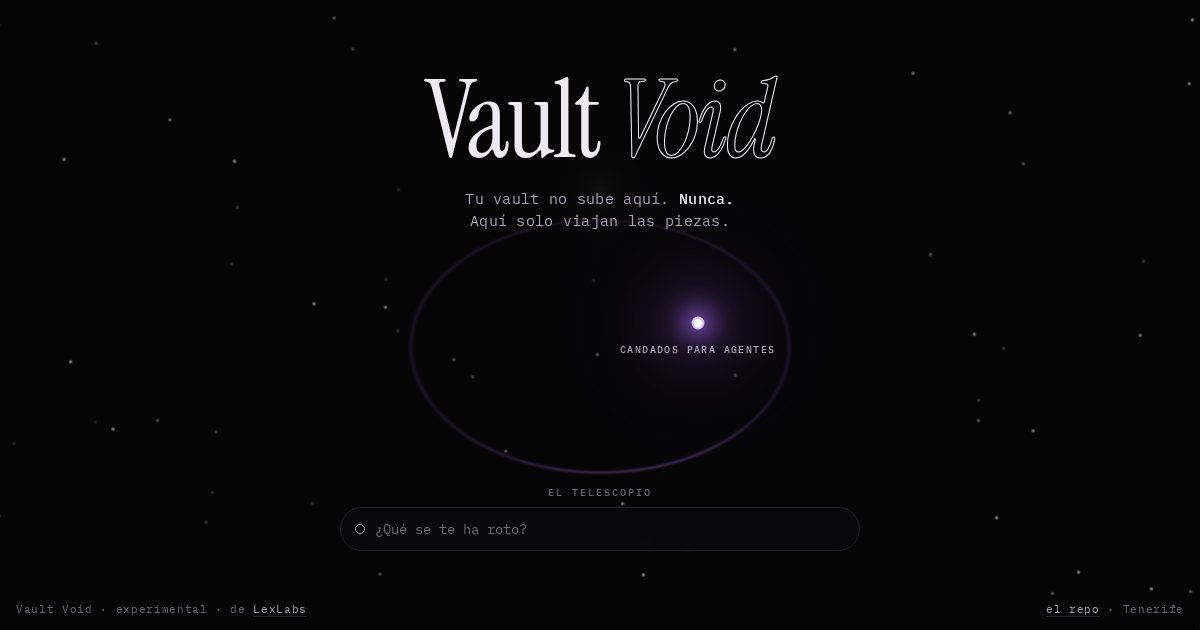
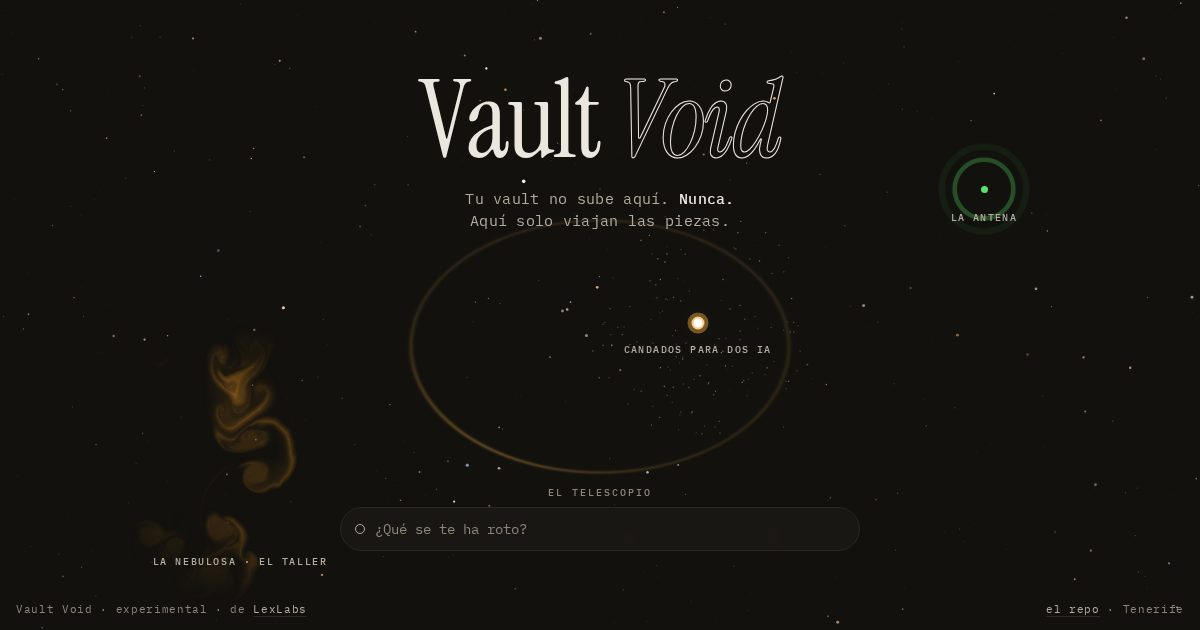
paleta: fuera el morado y los halos en vaultvoid.app y en las paginas de la red (carbon, ambar, laton y verde de resalte, la de LinkedIn; paleta.md del vault, 8-oct); gas de la nebulosa en ambar sin resplandor, estrellas sin aura, sin rebotes, icono e imagen para compartir rehechos; impeccable: port

diff --git a/web/index.html b/web/index.html
@@ -19,7 +19,7 @@
 <meta name="twitter:image" content="https://vaultvoid.app/og.jpg">
 <link rel="icon" href="/icono.svg" type="image/svg+xml">
 <link rel="apple-touch-icon" href="/apple-touch-icon.png">
-<meta name="theme-color" content="#050506">
+<meta name="theme-color" content="#12110E">
 <link rel="stylesheet" href="https://fonts.googleapis.com/css2?family=Instrument+Serif:ital@0;1&family=IBM+Plex+Mono:wght@400;500&display=swap">
 <style>
 /*
@@ -31,14 +31,15 @@
   Se llega por un agujero blanco que escupe la retícula que se tragó la landing. Cada capa de Void es un
   objeto en el vacío (el mapa vive en el «Plano unificado del vault»). Hoy hay tres:
     · la constelación: el catálogo, leído en vivo del repo público. Cada estrella, una luz.
-      Color = nivel (oficial violeta, socio ámbar, comunidad blanco). Tamaño = vaults que la usan.
+      Color = nivel (oficial ámbar, socio latón, comunidad blanco cálido). Tamaño = vaults que la usan.
     · el anillo: la puerta. La liga grande vive dentro; la pequeña orbita fuera.
     · el telescopio: buscas por lo que se te ha roto, no por el nombre, y se encienden las que lo resuelven.
-  El violeta es el mismo reactivo que corre por la landing.
+  Paleta (8-oct, paleta.md del vault): la de LinkedIn. Ámbar para actuar, verde para resaltar, nada morado y sin
+  halos: el auditor de diseño marcaba los dos como firma de interfaz hecha con IA.
 */
 :root{
-  --vacio:#050506; --tinta:#EDEAF2; --tinta-2:#A9A3B5; --tenue:#6D6878; --linea:#221F29;
-  --reactivo:#B06BFF; --reactivo-2:#D9B8FF; --ambar:#FFB43A; --rojo:#F0604F;
+  --vacio:#12110E; --tinta:#ECE7DE; --tinta-2:#B3AC9F; --tenue:#8C8578; --linea:#2B2822;
+  --ambar:#F2A93B; --ambar-2:#F8CB86; --verde:#5BE06A; --laton:#B08D57; --rojo:#F0604F;
   --serif:"Instrument Serif",Georgia,"Times New Roman",serif; --mono:"IBM Plex Mono",ui-monospace,Menlo,monospace;
   color-scheme:dark;
 }
@@ -70,15 +71,15 @@ body{margin:0;background:var(--vacio);color:var(--tinta);font:15px/1.6 var(--mon
 .astro{position:absolute;left:var(--x);top:var(--y);width:56px;height:56px;margin:-28px 0 0 -28px;border:0;padding:0;
   background:transparent;cursor:pointer;border-radius:50%;-webkit-tap-highlight-color:transparent}
 .astro .luz{position:absolute;left:50%;top:50%;width:var(--d,9px);height:var(--d,9px);transform:translate(-50%,-50%);border-radius:50%;background:#fff;
-  box-shadow:0 0 0 2px var(--c2),0 0 18px 4px var(--c),0 0 60px 14px var(--c3);animation:late 3.2s ease-in-out infinite}
-@keyframes late{50%{box-shadow:0 0 0 2px var(--c2),0 0 26px 7px var(--c),0 0 90px 22px var(--c3)}}
+  box-shadow:0 0 0 2px var(--c2);animation:late 3.2s ease-in-out infinite}
+@keyframes late{50%{box-shadow:0 0 0 2px var(--c2),0 0 0 6px var(--c3)}}
 .astro .rot{position:absolute;left:50%;top:calc(50% + 20px);transform:translateX(-50%);white-space:nowrap;font:500 10px var(--mono);
   letter-spacing:.14em;text-transform:uppercase;color:var(--tinta-2);transition:color .3s}
 .astro:hover .rot,.astro:focus-visible .rot,.astro.encendida .rot{color:var(--tinta)}
-.astro:focus-visible{outline:1px solid var(--reactivo-2);outline-offset:6px}
-.astro[data-nivel="oficiales"]{--c:var(--reactivo);--c2:var(--reactivo-2);--c3:rgba(176,107,255,.35)}
-.astro[data-nivel="socio"]{--c:var(--ambar);--c2:#FFD796;--c3:rgba(255,180,58,.3)}
-.astro[data-nivel="comunidad"]{--c:#cfcbd8;--c2:#fff;--c3:rgba(220,215,235,.22)}
+.astro:focus-visible{outline:1px solid var(--ambar-2);outline-offset:6px}
+.astro[data-nivel="oficiales"]{--c:var(--ambar);--c2:var(--ambar-2);--c3:rgba(242,169,59,.45)}
+.astro[data-nivel="socio"]{--c:var(--laton);--c2:#D9BE8F;--c3:rgba(176,141,87,.45)}
+.astro[data-nivel="comunidad"]{--c:#E9E5DC;--c2:#FFFFFF;--c3:rgba(233,229,220,.35)}
 
 /* la nebulosa: donde nacen las estrellas. Su gas es un fluido de verdad (webgl-fluid, MIT) */
 .nebulosa{position:absolute;left:var(--nx,20%);top:var(--ny,74%);width:var(--nd,300px);height:var(--nd,300px);transform:translate(-50%,-50%);
@@ -95,8 +96,8 @@ body{margin:0;background:var(--vacio);color:var(--tinta);font:15px/1.6 var(--mon
 /* la antena: el vacío contesta a los asistentes de IA. Emite ondas; al tocarla da la dirección para conectarla */
 .antena{position:absolute;left:var(--ax,82%);top:var(--ay,28%);width:44px;height:44px;margin:-22px 0 0 -22px;border:0;padding:0;background:transparent;
   cursor:pointer;border-radius:50%;z-index:2;-webkit-tap-highlight-color:transparent}
-.antena .nucleo{position:absolute;left:50%;top:50%;width:7px;height:7px;margin:-3.5px 0 0 -3.5px;border-radius:50%;background:var(--tinta);box-shadow:0 0 10px var(--tinta)}
-.antena .onda{position:absolute;left:50%;top:50%;width:14px;height:14px;margin:-7px 0 0 -7px;border-radius:50%;border:1px solid var(--reactivo-2);opacity:0;animation:onda 3.6s cubic-bezier(.2,.6,.3,1) infinite}
+.antena .nucleo{position:absolute;left:50%;top:50%;width:7px;height:7px;margin:-3.5px 0 0 -3.5px;border-radius:50%;background:var(--verde)}
+.antena .onda{position:absolute;left:50%;top:50%;width:14px;height:14px;margin:-7px 0 0 -7px;border-radius:50%;border:1px solid var(--verde);opacity:0;animation:onda 3.6s cubic-bezier(.2,.6,.3,1) infinite}
 .antena .onda:nth-child(3){animation-delay:1.2s}.antena .onda:nth-child(4){animation-delay:2.4s}
 @keyframes onda{0%{transform:scale(1);opacity:.7}100%{transform:scale(7);opacity:0}}
 .antena .rot{position:absolute;left:50%;top:calc(50% + 22px);transform:translateX(-50%);white-space:nowrap;font:500 10px var(--mono);letter-spacing:.14em;text-transform:uppercase;color:var(--tinta-2)}
@@ -107,10 +108,10 @@ body{margin:0;background:var(--vacio);color:var(--tinta);font:15px/1.6 var(--mon
 
 /* la ficha de una estrella */
 .ficha{position:absolute;left:var(--fx,50%);top:var(--fy,50%);width:min(360px,calc(100vw - 32px));max-height:calc(100% - 32px);overflow:auto;padding:18px 18px 16px;
-  background:rgba(12,10,16,.9);border:1px solid var(--linea);backdrop-filter:blur(6px);-webkit-backdrop-filter:blur(6px);z-index:5;
+  background:rgba(27,25,21,.92);border:1px solid var(--linea);backdrop-filter:blur(6px);-webkit-backdrop-filter:blur(6px);z-index:5;
   opacity:0;transform:translateY(8px);pointer-events:none;transition:opacity .45s ease,transform .45s cubic-bezier(.2,.7,.2,1)}
 .ficha.abierta{opacity:1;transform:none;pointer-events:auto}
-.ficha .n{margin:0 0 4px;font:500 10px var(--mono);letter-spacing:.2em;text-transform:uppercase;color:var(--reactivo-2)}
+.ficha .n{margin:0 0 4px;font:500 10px var(--mono);letter-spacing:.2em;text-transform:uppercase;color:var(--ambar-2)}
 .ficha h2{margin:0 0 10px;font:400 30px/1.05 var(--serif);letter-spacing:-.01em;padding-right:24px}
 .ficha p{margin:0 0 9px;color:var(--tinta-2);font-size:13px;line-height:1.6}
 .ficha .dato{display:flex;justify-content:space-between;gap:12px;border-top:1px solid var(--linea);padding:8px 0 0;margin:10px 0 0;font-size:11.5px;color:var(--tenue)}
@@ -119,7 +120,7 @@ body{margin:0;background:var(--vacio);color:var(--tinta);font:15px/1.6 var(--mon
 .ficha .orden code{flex:1;min-width:0;padding:8px 10px;font:12px var(--mono);color:var(--tinta);white-space:nowrap;overflow-x:auto}
 .ficha .orden button{border:0;border-left:1px solid var(--linea);background:transparent;color:var(--tinta-2);font:500 11px var(--mono);padding:0 12px;cursor:pointer}
 .ficha .orden button:hover{color:var(--tinta)}
-.ficha a{display:inline-block;margin-top:8px;color:var(--tinta);text-decoration:none;font:500 12.5px var(--mono);border-bottom:1px solid var(--reactivo);padding-bottom:2px}
+.ficha a{display:inline-block;margin-top:8px;color:var(--tinta);text-decoration:none;font:500 12.5px var(--mono);border-bottom:1px solid var(--ambar);padding-bottom:2px}
 .ficha a:hover{border-bottom-color:var(--tinta)}
 .ficha a[hidden]{display:none}
 .ficha #ficha-a{margin-right:18px}
@@ -129,14 +130,14 @@ body{margin:0;background:var(--vacio);color:var(--tinta);font:15px/1.6 var(--mon
 /* el telescopio: se busca por lo que se ha roto */
 .telescopio{position:absolute;left:50%;bottom:calc(52px + env(safe-area-inset-bottom,0px));transform:translateX(-50%);width:min(520px,calc(100vw - 32px));z-index:4}
 .telescopio label{display:block;margin:0 0 8px;font:500 10px var(--mono);letter-spacing:.2em;text-transform:uppercase;color:var(--tenue);text-align:center}
-.telescopio .lente{display:flex;align-items:center;gap:10px;border:1px solid var(--linea);background:rgba(10,9,14,.75);backdrop-filter:blur(4px);-webkit-backdrop-filter:blur(4px);
+.telescopio .lente{display:flex;align-items:center;gap:10px;border:1px solid var(--linea);background:rgba(27,25,21,.8);backdrop-filter:blur(4px);-webkit-backdrop-filter:blur(4px);
   padding:0 14px;border-radius:999px;transition:border-color .3s}
-.telescopio .lente:focus-within{border-color:var(--reactivo)}
+.telescopio .lente:focus-within{border-color:var(--ambar)}
 .telescopio .ojo{width:10px;height:10px;border-radius:50%;border:1.5px solid var(--tinta-2);flex:none}
 .telescopio input{flex:1;min-width:0;background:transparent;border:0;outline:0;color:var(--tinta);font:400 14px var(--mono);padding:12px 0}
 .telescopio input::placeholder{color:var(--tenue)}
 .telescopio .eco{margin:8px 0 0;min-height:1.6em;text-align:center;font-size:12px;color:var(--tinta-2)}
-.telescopio .eco a{color:var(--tinta);text-decoration:none;border-bottom:1px solid var(--reactivo)}
+.telescopio .eco a{color:var(--tinta);text-decoration:none;border-bottom:1px solid var(--ambar)}
 
 .pie{position:absolute;left:16px;right:16px;bottom:calc(14px + env(safe-area-inset-bottom,0px));display:flex;justify-content:space-between;gap:12px;flex-wrap:wrap;
   font:400 11px var(--mono);letter-spacing:.06em;color:var(--tenue)}
@@ -303,7 +304,7 @@ html:not(.js) .sinjs a{color:var(--tinta)}
     lista.forEach(function(e){var ok=!pal.length||pal.every(function(p){return e.texto.indexOf(p)>=0;});
       var antes=e.el.classList.contains("encendida");
       e.vis=ok?1:.12; e.el.style.setProperty("--vis",e.vis); e.el.classList.toggle("encendida",ok&&pal.length>0); if(ok) n++;
-      if(G&&ok&&pal.length&&!antes) G.fromTo(e.el.querySelector(".luz"),{scale:2.4},{scale:1,duration:.9,ease:"elastic.out(1,.35)"});});
+      if(G&&ok&&pal.length&&!antes) G.fromTo(e.el.querySelector(".luz"),{scale:2.4},{scale:1,duration:.9,ease:"expo.out"});});
     if(!pal.length) eco.textContent="";
     else if(n) eco.textContent=n===1?"Una estrella lo resuelve. Tócala.":n+" estrellas lo resuelven.";
     else eco.innerHTML='Ninguna estrella lo resuelve todavía. <a href="https://alexcanofuentes.com" rel="noopener">Cuéntamelo</a> y quizá sea la siguiente.';
@@ -337,8 +338,8 @@ html:not(.js) .sinjs a{color:var(--tinta)}
       sc.onload=function(){ try{ var r=cv.getBoundingClientRect(); cv.width=Math.round(r.width); cv.height=Math.round(r.height);
         window.WebGLFluid(cv,{TRIGGER:"hover",IMMEDIATE:true,AUTO:true,INTERVAL:2600,SPLAT_COUNT:3,SIM_RESOLUTION:64,DYE_RESOLUTION:256,CAPTURE_RESOLUTION:128,
           DENSITY_DISSIPATION:.45,VELOCITY_DISSIPATION:.25,CURL:28,SPLAT_RADIUS:.32,SPLAT_FORCE:2200,PRESSURE:.8,
-          COLORFUL:false,SPLAT_COLOR:{r:.24,g:.11,b:.42},SHADING:true,TRANSPARENT:true,BACK_COLOR:{r:0,g:0,b:0},
-          BLOOM:true,BLOOM_INTENSITY:.6,BLOOM_THRESHOLD:.4,SUNRAYS:false}); }catch(x){console.warn(x);} };
+          COLORFUL:false,SPLAT_COLOR:{r:.40,g:.25,b:.06},SHADING:true,TRANSPARENT:true,BACK_COLOR:{r:0,g:0,b:0},
+          BLOOM:false,SUNRAYS:false} /* gas ámbar y sin resplandor (8-oct: nada morado, sin halos) */); }catch(x){console.warn(x);} };
       document.head.appendChild(sc); }
     setTimeout(arranca,1800);   // después de la llegada: primero el agujero blanco, luego el gas
   })();
@@ -389,7 +390,7 @@ html:not(.js) .sinjs a{color:var(--tinta)}
         cx.fillStyle="rgba("+s.c[0]+","+s.c[1]+","+s.c[2]+","+(s.a*tw*e).toFixed(3)+")";
         cx.beginPath(); cx.arc(x,y,s.r,0,6.283); cx.fill(); }
       if(lista.length&&polvo.length){ for(var n=0;n<2;n++) paso(dt/2,lista);
-        cx.fillStyle="rgba(190,150,255,1)";
+        cx.fillStyle="rgba(233,229,220,1)";
         for(var k=0;k<polvo.length;k++){ var q=polvo[k]; cx.globalAlpha=q.a*e*.8; cx.fillRect(q.x,q.y,1.2,1.2); }
         cx.globalAlpha=1; }
       cx.globalCompositeOperation="source-over";
@@ -407,7 +408,7 @@ html:not(.js) .sinjs a{color:var(--tinta)}
     "float cov(float p,float Q){float q=mod(p+.5,Q);float d=min(q,Q-q);return 1.-smoothstep(.5-.7/dpr,.5+.7/dpr,d);}"+
     "void main(){vec2 f=vec2(gl_FragCoord.x,S.y*dpr-gl_FragCoord.y)/dpr;vec2 c=vec2(S.x*.5,S.y*.3);vec2 d=f-c;float r=length(d);"+
     "float m=min(S.x,S.y);float a=clamp(max(t/3.2,salto),0.,1.);float e=1.-pow(1.-a,3.);"+
-    "vec3 col=vec3(.0196,.0196,.0235);"+
+    "vec3 col=vec3(.0706,.0667,.0549);"+
 
     // FÍSICA REAL: el agujero blanco es el negro con el tiempo al revés. Fuera, la luz se curva igual (desvío de
     // Schwarzschild, tabla Al calculada al cargar); dentro del radio crítico, en vez de sombra, sale luz.
@@ -417,22 +418,23 @@ html:not(.js) .sinjs a{color:var(--tinta)}
     "float ret=0.;if(b>2.75&&al<1.45){vec2 sc=c+dir*(b-6.*tan(al))*Rs;sc=mix(sc,f,smoothstep(m*.25,m*.9,r));"+
       "float g1=max(cov(sc.x,24.),cov(sc.y,24.)),g2=max(cov(sc.x,120.),cov(sc.y,120.));"+
       "ret=(g1*.35+g2*.65)*(1.-e)*(1.-smoothstep(m*.3,m*(.6+1.4*e),r));}"+
-    "col+=mix(vec3(.85,.72,1.),vec3(.69,.42,1.),e)*ret*.55;"+
+    "col+=mix(vec3(1.,.86,.62),vec3(.95,.66,.23),e)*ret*.55;"+
     "float dentro=1.-smoothstep(2.45,2.75,b);float anillo=exp(-pow((b-2.62)/.08,2.));"+
-    "col+=vec3(1.)*(dentro*2.6+anillo*1.4)*(1.-e*.97)+vec3(.92,.84,1.)*exp(-r/(Rs*5.))*(1.-e)*1.2+vec3(.86,.75,1.)*exp(-r/(Rs*16.))*(1.-e)*.35;"+
-    "float ondas=pow(.5+.5*sin(r/m*38.-t*7.),6.)*exp(-r/(m*.45))*(1.-e)*.45;col+=vec3(.86,.75,1.)*ondas;"+
+    "col+=vec3(1.)*(dentro*2.6+anillo*1.4)*(1.-e*.97)+vec3(1.,.9,.74)*exp(-r/(Rs*5.))*(1.-e)*1.2+vec3(.97,.8,.55)*exp(-r/(Rs*16.))*(1.-e)*.35;"+
+    "float ondas=pow(.5+.5*sin(r/m*38.-t*7.),6.)*exp(-r/(m*.45))*(1.-e)*.45;col+=vec3(.97,.8,.55)*ondas;"+
     "col+=vec3(1.)*max(0.,1.-t*2.4)*(1.-salto);"+
     // el anillo de la puerta: una elipse tenue, con un brillo que la recorre despacio
     "vec2 q=(f-Ani.xy)/vec2(Ani.z*(S.x<700.?1.:1.5),Ani.z);float an=atan(q.y,q.x);"+
-    "float ani=exp(-pow((length(q)-1.)*Ani.z/1.6,2.))*(.10+.18*pow(.5+.5*cos(an-t*.25),8.));col+=vec3(.69,.42,1.)*ani*smoothstep(.6,1.,e);"+
-    // el halo de cada estrella, con su color y su brillo (las que no casan con la búsqueda se apagan)
-    "for(int i=0;i<16;i++){float de=length(f-E[i].xy);col+=C[i]*exp(-de/(m*.045))*.22*E[i].z*smoothstep(.55,1.,e);}"+
+    "float ani=exp(-pow((length(q)-1.)*Ani.z/1.6,2.))*(.10+.18*pow(.5+.5*cos(an-t*.25),8.));col+=vec3(.95,.66,.23)*ani*smoothstep(.6,1.,e);"+
+    // sin halo alrededor de cada estrella (8-oct): la estrella la dibuja su punto; aquí solo una mancha mínima,
+    // la dispersión de un punto de luz, para que la búsqueda pueda apagar las que no casan
+    "for(int i=0;i<16;i++){float de=length(f-E[i].xy);col+=C[i]*exp(-de/(m*.006))*.18*E[i].z*smoothstep(.55,1.,e);}"+
     "gl_FragColor=vec4(col,1.);}";
   function llega(){
     if(!G) return;
     if(window.SplitText){ var sp=SplitText.create(".marca h1",{type:"chars"});
       G.from(sp.chars,{opacity:0,filter:"blur(12px)",y:18,duration:1.1,ease:"expo.out",stagger:.045}); }
-    G.from(".astro .luz",{scale:0,duration:1.3,ease:"elastic.out(1,.4)",stagger:.12,delay:.9});
+    G.from(".astro .luz",{scale:0,duration:1.3,ease:"expo.out",stagger:.12,delay:.9});
   }
   function inicia(){
     try{gl=cv.getContext("webgl",{antialias:false,depth:false,stencil:false,powerPreference:"low-power"});}catch(x){gl=null;}
@@ -456,7 +458,7 @@ html:not(.js) .sinjs a{color:var(--tinta)}
     }catch(x){console.warn(x);gl=null;return false;}
     return true;
   }
-  var COLOR={oficiales:[.69,.42,1.],socio:[1.,.71,.23],comunidad:[.85,.83,.92]}, vis={};
+  var COLOR={oficiales:[.95,.66,.23],socio:[.69,.55,.34],comunidad:[.91,.9,.86]}, vis={};
   function tam(){W=innerWidth;H=innerHeight;dpr=Math.min(devicePixelRatio||1,(navigator.hardwareConcurrency||4)<=4?1:1.5);
     cv.width=Math.round(W*dpr);cv.height=Math.round(H*dpr);if(gl)gl.viewport(0,0,cv.width,cv.height);geometria();}
   function pinta(now){raf=0; if(document.hidden) return;
@@ -470,7 +472,7 @@ html:not(.js) .sinjs a{color:var(--tinta)}
     var ee=Math.max(0,Math.min(1,(red?1:Math.max(t/3.2,salto)))); hondo.pinta(now,Math.max(0,(ee-.45)/.55),lista);
     if((t>2.6||salto)&&!root.classList.contains("listo")){ root.classList.add("listo"); llega(); }
     if(!red) raf=requestAnimationFrame(pinta);}
-  if(!inicia()){cv.style.background="radial-gradient(circle at 50% 30%,#1a1022 0,#050506 60%)"; root.classList.add("listo"); llega();}
+  if(!inicia()){cv.style.background="radial-gradient(circle at 50% 30%,#1F1C16 0,#12110E 60%)"; root.classList.add("listo"); llega();}
   tam(); addEventListener("resize",tam,{passive:true});
   addEventListener("pointermove",function(ev){mx=ev.clientX/W;my=ev.clientY/H;},{passive:true});
   document.addEventListener("visibilitychange",function(){if(!document.hidden&&!raf) raf=requestAnimationFrame(pinta);});

diff --git a/web/empezar.html b/web/empezar.html
@@ -20,7 +20,7 @@
 <link rel="icon" href="/icono.svg" type="image/svg+xml">
 <link rel="apple-touch-icon" href="/apple-touch-icon.png">
 <link rel="alternate" type="text/markdown" href="/empezar.md" title="Esta página en texto plano">
-<meta name="theme-color" content="#050506">
+<meta name="theme-color" content="#12110E">
 <link rel="stylesheet" href="https://fonts.googleapis.com/css2?family=Instrument+Serif:ital@0;1&family=IBM+Plex+Mono:wght@400;500&display=swap">
 <style>
 /*
@@ -30,33 +30,33 @@
   Las dos huellas (void.py y la plantilla) las escribe regenerar_manifiesto.py: no se cambian a mano.
 */
 :root{
-  --vacio:#050506; --tinta:#EDEAF2; --tinta-2:#A9A3B5; --tenue:#6D6878; --linea:#221F29; --panel:#0D0C11;
-  --reactivo:#B06BFF; --reactivo-2:#D9B8FF; --ambar:#FFB43A;
+  --vacio:#12110E; --tinta:#ECE7DE; --tinta-2:#B3AC9F; --tenue:#8C8578; --linea:#2B2822; --panel:#1B1915;
+  --acento:#F2A93B; --acento-2:#F8CB86;--verde:#5BE06A; --ambar:#F2A93B;
   --serif:"Instrument Serif",Georgia,"Times New Roman",serif; --mono:"IBM Plex Mono",ui-monospace,Menlo,monospace;
   color-scheme:dark;
 }
 *{box-sizing:border-box}
 html{-webkit-text-size-adjust:100%}
 body{margin:0;background:var(--vacio);color:var(--tinta);font:15px/1.7 var(--mono);-webkit-font-smoothing:antialiased}
-main{max-width:46rem;margin:0 auto;padding:56px 16px 72px}
+main{max-width:38rem;margin:0 auto;padding:56px 16px 72px}
 h1{margin:0 0 28px;font:400 clamp(44px,8vw,76px)/1 var(--serif);letter-spacing:-.02em}
 h1 em{font-style:italic;color:transparent;-webkit-text-stroke:1px var(--tinta)}
 h2{margin:56px 0 12px;font:400 32px/1.15 var(--serif);color:var(--tinta)}
-h3{margin:40px 0 10px;font:500 15px/1.4 var(--mono);color:var(--reactivo-2);letter-spacing:.02em}
+h3{margin:40px 0 10px;font:500 15px/1.4 var(--mono);color:var(--acento-2);letter-spacing:.02em}
 p,li{color:var(--tinta-2)}
 strong{color:var(--tinta);font-weight:500}
-a{color:var(--reactivo-2);text-underline-offset:3px}
+a{color:var(--acento-2);text-underline-offset:3px}
 ul,ol{padding-left:1.4em}
 li{margin:6px 0}
 code{font:inherit;color:var(--tinta);background:var(--panel);border:1px solid var(--linea);border-radius:4px;padding:0 .3em;overflow-wrap:anywhere}
-pre{margin:14px 0;padding:14px 16px;background:var(--panel);border:1px solid var(--linea);border-left:2px solid var(--reactivo);border-radius:6px;overflow-x:auto}
+pre{margin:14px 0;padding:14px 16px;background:var(--panel);border:1px solid var(--linea);border-left:2px solid var(--acento);border-radius:6px;overflow-x:auto}
 pre code{background:none;border:0;padding:0;white-space:pre-wrap;word-break:break-all;color:var(--tinta)}
 blockquote{margin:16px 0;padding:2px 0 2px 16px;border-left:2px solid var(--linea)}
 blockquote p,blockquote li{color:var(--tinta)}
-.persona{margin:0 0 8px;padding:18px 20px;border:1px solid var(--reactivo);border-radius:8px;background:rgba(176,107,255,.06)}
+.persona{margin:0 0 8px;padding:18px 20px;border:1px solid var(--acento);border-radius:8px;background:rgba(242,169,59,.06)}
 .persona p{margin:0;color:var(--tinta)}
-.frase{display:block;margin:12px 0 0;font-size:17px;color:var(--reactivo-2)}
-.huella{display:block;margin:10px 0;padding:10px 14px;font-size:13px;color:var(--ambar);border-color:rgba(255,180,58,.35)}
+.frase{display:block;margin:12px 0 0;font-size:17px;color:var(--acento-2)}
+.huella{display:block;margin:10px 0;padding:10px 14px;font-size:13px;color:var(--ambar);border-color:rgba(242,169,59,.4)}
 .texto{font-size:13px;color:var(--tenue)}
 hr{border:0;border-top:1px solid var(--linea);margin:44px 0}
 footer{margin-top:56px;font-size:13px;color:var(--tenue)}

diff --git a/web/entrar.html b/web/entrar.html
@@ -20,7 +20,7 @@
 <link rel="icon" href="/icono.svg" type="image/svg+xml">
 <link rel="apple-touch-icon" href="/apple-touch-icon.png">
 <link rel="alternate" type="text/markdown" href="/entrar.md" title="Esta página en texto plano">
-<meta name="theme-color" content="#050506">
+<meta name="theme-color" content="#12110E">
 <link rel="stylesheet" href="https://fonts.googleapis.com/css2?family=Instrument+Serif:ital@0;1&family=IBM+Plex+Mono:wght@400;500&display=swap">
 <style>
 /*
@@ -30,33 +30,33 @@
   La huella de void.py la escribe regenerar_manifiesto.py: no se cambia a mano.
 */
 :root{
-  --vacio:#050506; --tinta:#EDEAF2; --tinta-2:#A9A3B5; --tenue:#6D6878; --linea:#221F29; --panel:#0D0C11;
-  --reactivo:#B06BFF; --reactivo-2:#D9B8FF; --ambar:#FFB43A;
+  --vacio:#12110E; --tinta:#ECE7DE; --tinta-2:#B3AC9F; --tenue:#8C8578; --linea:#2B2822; --panel:#1B1915;
+  --acento:#F2A93B; --acento-2:#F8CB86;--verde:#5BE06A; --ambar:#F2A93B;
   --serif:"Instrument Serif",Georgia,"Times New Roman",serif; --mono:"IBM Plex Mono",ui-monospace,Menlo,monospace;
   color-scheme:dark;
 }
 *{box-sizing:border-box}
 html{-webkit-text-size-adjust:100%}
 body{margin:0;background:var(--vacio);color:var(--tinta);font:15px/1.7 var(--mono);-webkit-font-smoothing:antialiased}
-main{max-width:46rem;margin:0 auto;padding:56px 16px 72px}
+main{max-width:38rem;margin:0 auto;padding:56px 16px 72px}
 h1{margin:0 0 28px;font:400 clamp(44px,8vw,76px)/1 var(--serif);letter-spacing:-.02em}
 h1 em{font-style:italic;color:transparent;-webkit-text-stroke:1px var(--tinta)}
 h2{margin:56px 0 12px;font:400 32px/1.15 var(--serif);color:var(--tinta)}
-h3{margin:40px 0 10px;font:500 15px/1.4 var(--mono);color:var(--reactivo-2);letter-spacing:.02em}
+h3{margin:40px 0 10px;font:500 15px/1.4 var(--mono);color:var(--acento-2);letter-spacing:.02em}
 p,li{color:var(--tinta-2)}
 strong{color:var(--tinta);font-weight:500}
-a{color:var(--reactivo-2);text-underline-offset:3px}
+a{color:var(--acento-2);text-underline-offset:3px}
 ul,ol{padding-left:1.4em}
 li{margin:6px 0}
 code{font:inherit;color:var(--tinta);background:var(--panel);border:1px solid var(--linea);border-radius:4px;padding:0 .3em;overflow-wrap:anywhere}
-pre{margin:14px 0;padding:14px 16px;background:var(--panel);border:1px solid var(--linea);border-left:2px solid var(--reactivo);border-radius:6px;overflow-x:auto}
+pre{margin:14px 0;padding:14px 16px;background:var(--panel);border:1px solid var(--linea);border-left:2px solid var(--acento);border-radius:6px;overflow-x:auto}
 pre code{background:none;border:0;padding:0;white-space:pre-wrap;word-break:break-all;color:var(--tinta)}
 blockquote{margin:16px 0;padding:2px 0 2px 16px;border-left:2px solid var(--linea)}
 blockquote p,blockquote li{color:var(--tinta)}
-.persona{margin:0 0 8px;padding:18px 20px;border:1px solid var(--reactivo);border-radius:8px;background:rgba(176,107,255,.06)}
+.persona{margin:0 0 8px;padding:18px 20px;border:1px solid var(--acento);border-radius:8px;background:rgba(242,169,59,.06)}
 .persona p{margin:0;color:var(--tinta)}
-.frase{display:block;margin:12px 0 0;font-size:17px;color:var(--reactivo-2)}
-.huella{display:block;margin:10px 0;padding:10px 14px;font-size:13px;color:var(--ambar);border-color:rgba(255,180,58,.35)}
+.frase{display:block;margin:12px 0 0;font-size:17px;color:var(--acento-2)}
+.huella{display:block;margin:10px 0;padding:10px 14px;font-size:13px;color:var(--ambar);border-color:rgba(242,169,59,.4)}
 .texto{font-size:13px;color:var(--tenue)}
 hr{border:0;border-top:1px solid var(--linea);margin:44px 0}
 footer{margin-top:56px;font-size:13px;color:var(--tenue)}

diff --git a/red/src/paginas.ts b/red/src/paginas.ts
@@ -15,25 +15,25 @@ export const CSP = "default-src 'none'; style-src 'unsafe-inline' https://fonts.
   + "img-src https://vaultvoid.app; base-uri 'none'; form-action 'none'; frame-ancestors 'none'";
 
 const ESTILO = `
-:root{--vacio:#050506;--tinta:#EDEAF2;--tinta-2:#A9A3B5;--tenue:#6D6878;--linea:#221F29;--panel:#0D0C11;
---reactivo:#B06BFF;--reactivo-2:#D9B8FF;--ambar:#FFB43A;--rojo:#FF6B6B;--verde:#7BE0A6;
+:root{--vacio:#12110E;--tinta:#ECE7DE;--tinta-2:#B3AC9F;--tenue:#8C8578;--linea:#2B2822;--panel:#1B1915;
+--acento:#F2A93B;--acento-2:#F8CB86;--ambar:#F2A93B;--rojo:#FF6B6B;--verde:#5BE06A;
 --serif:"Instrument Serif",Georgia,"Times New Roman",serif;--mono:"IBM Plex Mono",ui-monospace,Menlo,monospace;color-scheme:dark}
 *{box-sizing:border-box}
 html{-webkit-text-size-adjust:100%}
 body{margin:0;background:var(--vacio);color:var(--tinta);font:15px/1.7 var(--mono);-webkit-font-smoothing:antialiased;min-height:100vh;
 background-image:radial-gradient(1px 1px at 12% 18%,#fff8 50%,transparent),radial-gradient(1px 1px at 78% 12%,#fff6 50%,transparent),
 radial-gradient(1px 1px at 63% 74%,#fff5 50%,transparent),radial-gradient(1px 1px at 28% 86%,#fff4 50%,transparent),
-radial-gradient(1.5px 1.5px at 88% 52%,#D9B8FF88 50%,transparent)}
+radial-gradient(1.5px 1.5px at 88% 52%,#F8CB8688 50%,transparent)}
 main{max-width:42rem;margin:0 auto;padding:72px 16px 72px}
-.n{margin:0 0 10px;font:500 11px var(--mono);letter-spacing:.2em;text-transform:uppercase;color:var(--reactivo-2)}
+.n{margin:0 0 10px;font:500 11px var(--mono);letter-spacing:.2em;text-transform:uppercase;color:var(--acento-2)}
 h1{margin:0 0 14px;font:400 clamp(48px,11vw,88px)/1 var(--serif);letter-spacing:-.02em;overflow-wrap:anywhere}
 h1 em{font-style:italic;color:transparent;-webkit-text-stroke:1px var(--tinta)}
 h2{margin:48px 0 14px;font:400 28px/1.15 var(--serif)}
 p{color:var(--tinta-2);margin:0 0 12px}
 strong{color:var(--tinta);font-weight:500}
-a{color:var(--reactivo-2);text-underline-offset:3px}
+a{color:var(--acento-2);text-underline-offset:3px}
 code{font:inherit;color:var(--tinta);background:var(--panel);border:1px solid var(--linea);border-radius:4px;padding:0 .3em;overflow-wrap:anywhere}
-pre{margin:14px 0;padding:12px 14px;background:var(--panel);border:1px solid var(--linea);border-left:2px solid var(--reactivo);border-radius:6px;overflow-x:auto}
+pre{margin:14px 0;padding:12px 14px;background:var(--panel);border:1px solid var(--linea);border-left:2px solid var(--acento);border-radius:6px;overflow-x:auto}
 pre code{background:none;border:0;padding:0;white-space:pre-wrap;overflow-wrap:anywhere}
 ul.lista{list-style:none;margin:0;padding:0;border-top:1px solid var(--linea)}
 ul.lista li{padding:14px 0;border-bottom:1px solid var(--linea)}
@@ -68,7 +68,7 @@ function pagina(o: { titulo: string; descripcion: string; url: string; cuerpo: s
 <meta name="twitter:image" content="${WEB}/og.jpg">
 <link rel="icon" href="${WEB}/icono.svg" type="image/svg+xml">
 <link rel="apple-touch-icon" href="${WEB}/apple-touch-icon.png">
-<meta name="theme-color" content="#050506">
+<meta name="theme-color" content="#12110E">
 <link rel="stylesheet" href="https://fonts.googleapis.com/css2?family=Instrument+Serif:ital@0;1&family=IBM+Plex+Mono:wght@400;500&display=swap">
 <style>${ESTILO}</style>
 </head>
